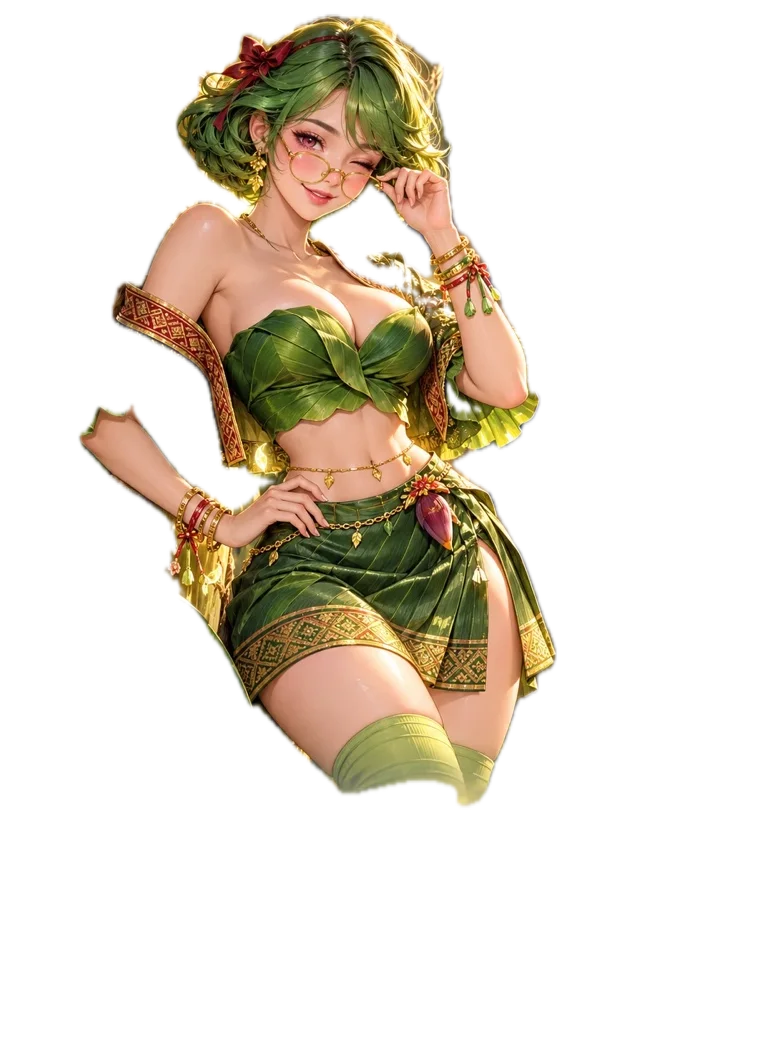
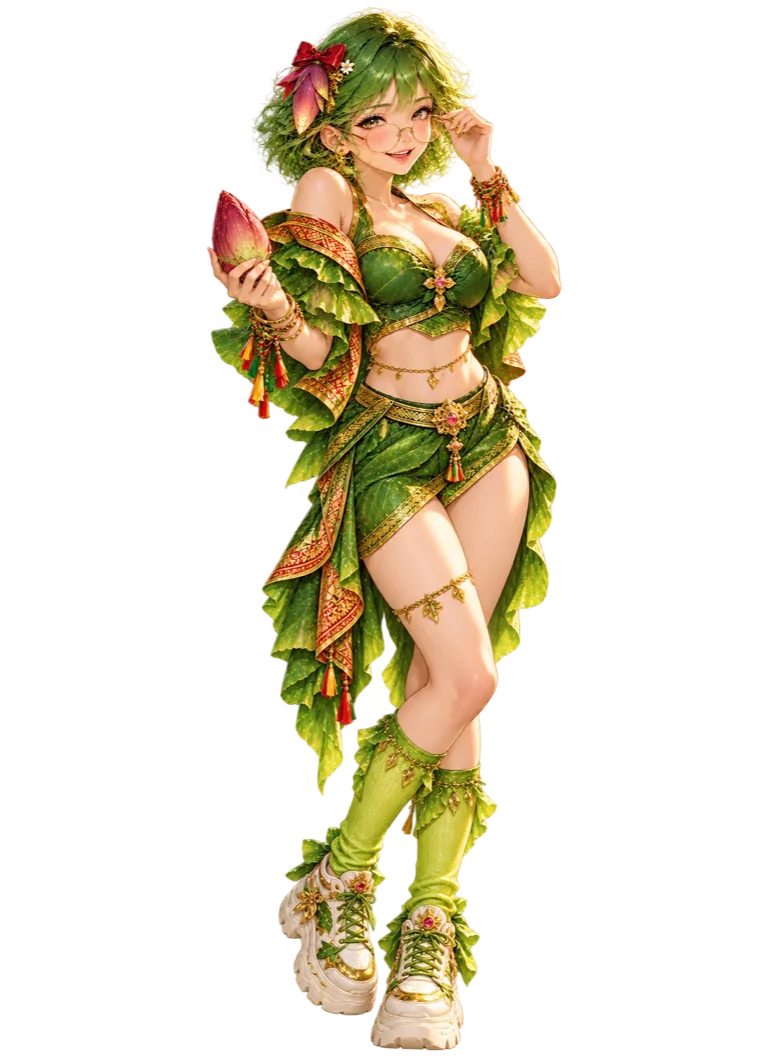
Nang Tani full-body showcase cutout (normal and special art) and Ajarn Daeng's voice line

diff --git a/index.html b/index.html
@@ -1,5 +1,5 @@
 <meta name="security-build" content="1">
-<meta http-equiv="Content-Security-Policy" content="default-src 'self'; script-src 'self' 'sha256-Xh50GS+mHx/D0Md/rNInzrnHCgoVxXr2jz0Vp6Xpx5U=' 'sha256-QUBI9elfxwXcLUtavhEAWhqrLD3PLtQ0V8pxQXOqd7E='; style-src 'self' 'unsafe-inline' https://fonts.googleapis.com; font-src 'self' https://fonts.gstatic.com data:; img-src 'self' data: blob: https://laolegendwars.com https://xahuvoounkdojfsvnfaj.supabase.co; media-src 'self' blob:; connect-src 'self' https://xahuvoounkdojfsvnfaj.supabase.co wss://xahuvoounkdojfsvnfaj.supabase.co; worker-src 'self'; object-src 'none'; base-uri 'none'; form-action 'self'">
+<meta http-equiv="Content-Security-Policy" content="default-src 'self'; script-src 'self' 'sha256-Xh50GS+mHx/D0Md/rNInzrnHCgoVxXr2jz0Vp6Xpx5U=' 'sha256-ci5fHfEQj/ddxvq+SypXGn7ybNlnEMLXcjkhuMZ4MSM='; style-src 'self' 'unsafe-inline' https://fonts.googleapis.com; font-src 'self' https://fonts.gstatic.com data:; img-src 'self' data: blob: https://laolegendwars.com https://xahuvoounkdojfsvnfaj.supabase.co; media-src 'self' blob:; connect-src 'self' https://xahuvoounkdojfsvnfaj.supabase.co wss://xahuvoounkdojfsvnfaj.supabase.co; worker-src 'self'; object-src 'none'; base-uri 'none'; form-action 'self'">
 <meta name="referrer" content="no-referrer">
 <meta charset="utf-8">
 <script>
@@ -2838,7 +2838,7 @@ const PET_ART = true;            // art/pet-<id>-<1..3>.webp, cut out from the u
 const PET_LINES = {start:['ສູ້ໆ!', 'ພ້ອມແລ້ວ!', 'ໄປກັນເລີຍ!'], kill:['ເກັ່ງຫຼາຍ!', 'ວ້າວ!', 'ສຸດຍອດ!'], legend:['ຕຳນານມາແລ້ວ!', 'ແຮງຫຼາຍ!'],
   tale:['ນິທານຄົບແລ້ວ!', 'ມ່ວນຫຼາຍ!'], win:['ຊະນະແລ້ວ! 🎉', 'ເຮົາເກັ່ງທີ່ສຸດ!'], lose:['ບໍ່ເປັນຫຍັງ ເທື່ອໜ້າເອົາໃໝ່!', 'ສູ້ໃໝ່ເດີ້!']};
 // cutouts for the summon showcase (art/cut/<img>.webp), made with the macOS subject-lift; the subject's box as fractions [x, y, w, h]
-const CUTS = {ajandaeng:[0.071,0.012,0.886,0.954],'alt-ajandaeng':[0.087,0.055,0.863,0.892],nangtani:[0.105,0.017,0.624,0.742],taniduean:[0.001,0,0.999,1],'alt-taniduean':[0.001,0,0.999,1],"pulangseung":[0.0145, 0.0, 0.9158, 0.6601],"alt-pulangseung":[0.0, 0.0, 0.9803, 0.6761],"khunjueang":[0.1013, 0.0473, 0.5934, 0.4276],"alt-khunjueang":[0.0, 0.0938, 0.5224, 0.3845],"chaothamkonglor":[0.3618, 0.01, 0.4579, 0.586],"alt-chaothamkonglor":[0.2855, 0.0085, 0.6987, 0.5849],"rueaxuangkham":[0.0, 0.0218, 1.0, 0.65],"alt-rueaxuangkham":[0.0158, 0.1569, 0.9842, 0.6134],"maekhuakham":[0.2342, 0.0236, 0.5171, 0.5309],"alt-maekhuakham":[0.0, 0.0822, 0.7947, 0.6352],"nairoymuay":[0.1026, 0.0511, 0.8697, 0.6424],"alt-nairoymuay":[0.0, 0.0132, 0.9408, 0.7703],"hydronak":[0.2322, 0.0198, 0.4395, 0.4613],"panyakham":[0.2211, 0.0132, 0.6776, 0.5478],"alt-panyakham":[0.0303, 0.086, 0.5921, 0.431],"bangfaidao":[0.3355, 0.0104, 0.6, 0.5208],"alt-bangfaidao":[0.0605, 0.0123, 0.8566, 0.6654],"maekaidao":[0.0, 0.1231, 0.9868, 0.4489],"alt-maekaidao":[0.0039, 0.0919, 0.95, 0.5464],"alt-hydronak":[0.0, 0.0085, 0.9178, 0.3547],nangchampa:[0.087,0.043,0.847,0.692],khudapphen:[0.029,0,0.953,0.636],dapsongmue:[0.008,0.055,0.966,0.496],ajandap:[0.126,0.074,0.768,0.715],kamkadam:[0.234,0.028,0.584,0.528],'alt-hackxm':[0,0.119,0.874,0.862],'alt-hapkhanasouane':[0,0.023,0.997,0.939],'alt-kalaket':[0,0.009,0.995,0.951],'alt-kamkadam':[0.045,0,0.945,0.657],'alt-kangli':[0,0.015,0.961,0.896],'alt-khaendj':[0,0,0.929,0.811],'alt-kratai':[0.232,0.242,0.513,0.417],'alt-luksaolao':[0,0.03,0.753,0.777],'alt-maethap':[0,0.013,0.795,0.879],'alt-makaew':[0,0.021,0.942,0.772],'alt-mechyak':[0,0.038,0.995,0.96],'alt-nagax':[0,0,0.887,0.798],'alt-nangkaew':[0,0,0.958,0.826],'alt-ngaonam':[0.087,0.385,0.674,0.238],'alt-phadaeng':[0,0.009,0.934,0.77],'alt-phayanak':[0,0,0.958,0.679],'alt-phayathaen':[0,0.015,0.997,0.677],'alt-phralam':[0,0,0.997,0.999],'alt-phutthasen':[0,0.047,0.997,0.709],'alt-punyeu':[0,0.021,0.997,0.591],'alt-santhaman':[0,0,0.997,0.942],'alt-singkaew':[0,0.094,0.992,0.691],'alt-sinxay':[0,0,0.984,0.999],'alt-suttharo':[0.216,0,0.529,0.615],'alt-thaohung':[0,0,0.989,0.998],'alt-xangsuek':[0,0.013,0.945,0.768],hanuman:[0,0,0.987,0.69],hapkhanasouane:[0,0.015,0.997,0.621],hungxang:[0,0,0.9,0.642],kalaket:[0,0.023,0.976,0.619],kamkadam2:[0,0.011,0.632,0.553],khrut:[0,0,0.997,0.679],khunborom:[0.108,0.038,0.395,0.369],khurak:[0.039,0.009,0.942,0.472],kratai:[0.034,0.094,0.963,0.468],kumphan:[0.058,0.011,0.713,0.543],leader:[0,0.023,0.997,0.674],maethap:[0,0,0.997,0.615],mechyak:[0,0.011,0.987,0.632],nakjet:[0.008,0.002,0.974,0.519],nangkaew:[0,0,0.987,0.711],phangkhi:[0,0,0.868,0.536],phayakhom:[0,0,0.997,0.623],phayanak:[0,0,0.892,0.938],phayathaen:[0.121,0.013,0.797,0.494],phralam:[0.105,0,0.861,0.741],phutthasen:[0,0.023,0.966,0.64],punyeu:[0.061,0.036,0.853,0.553],sangkhanthewi:[0.15,0.008,0.847,0.551],sangpheuak:[0.153,0.077,0.624,0.447],singhimma:[0.082,0.011,0.824,0.586],sinxay:[0,0,0.997,0.742],sinxaysam:[0.013,0.021,0.971,0.589],songphi:[0.039,0.023,0.782,0.494],suttharo:[0.003,0,0.776,0.394],thaenlom:[0.005,0.023,0.842,0.496],thaentong:[0.013,0,0.913,0.555],thaohung:[0.168,0,0.445,0.525],thewadapon:[0,0,0.761,0.566],xangjaidi:[0.1,0.03,0.797,0.542],xangsuek:[0.037,0.011,0.913,0.617],yaknak:[0.005,0.011,0.863,0.521],yaksip:[0.005,0,0.882,0.591],yaksombat:[0.084,0,0.913,0.609]};
+const CUTS = {ajandaeng:[0.071,0.012,0.886,0.954],'alt-ajandaeng':[0.087,0.055,0.863,0.892],nangtani:[0.271,0.006,0.47,0.986],'alt-nangtani':[0.271,0.006,0.47,0.986],taniduean:[0.001,0,0.999,1],'alt-taniduean':[0.001,0,0.999,1],"pulangseung":[0.0145, 0.0, 0.9158, 0.6601],"alt-pulangseung":[0.0, 0.0, 0.9803, 0.6761],"khunjueang":[0.1013, 0.0473, 0.5934, 0.4276],"alt-khunjueang":[0.0, 0.0938, 0.5224, 0.3845],"chaothamkonglor":[0.3618, 0.01, 0.4579, 0.586],"alt-chaothamkonglor":[0.2855, 0.0085, 0.6987, 0.5849],"rueaxuangkham":[0.0, 0.0218, 1.0, 0.65],"alt-rueaxuangkham":[0.0158, 0.1569, 0.9842, 0.6134],"maekhuakham":[0.2342, 0.0236, 0.5171, 0.5309],"alt-maekhuakham":[0.0, 0.0822, 0.7947, 0.6352],"nairoymuay":[0.1026, 0.0511, 0.8697, 0.6424],"alt-nairoymuay":[0.0, 0.0132, 0.9408, 0.7703],"hydronak":[0.2322, 0.0198, 0.4395, 0.4613],"panyakham":[0.2211, 0.0132, 0.6776, 0.5478],"alt-panyakham":[0.0303, 0.086, 0.5921, 0.431],"bangfaidao":[0.3355, 0.0104, 0.6, 0.5208],"alt-bangfaidao":[0.0605, 0.0123, 0.8566, 0.6654],"maekaidao":[0.0, 0.1231, 0.9868, 0.4489],"alt-maekaidao":[0.0039, 0.0919, 0.95, 0.5464],"alt-hydronak":[0.0, 0.0085, 0.9178, 0.3547],nangchampa:[0.087,0.043,0.847,0.692],khudapphen:[0.029,0,0.953,0.636],dapsongmue:[0.008,0.055,0.966,0.496],ajandap:[0.126,0.074,0.768,0.715],kamkadam:[0.234,0.028,0.584,0.528],'alt-hackxm':[0,0.119,0.874,0.862],'alt-hapkhanasouane':[0,0.023,0.997,0.939],'alt-kalaket':[0,0.009,0.995,0.951],'alt-kamkadam':[0.045,0,0.945,0.657],'alt-kangli':[0,0.015,0.961,0.896],'alt-khaendj':[0,0,0.929,0.811],'alt-kratai':[0.232,0.242,0.513,0.417],'alt-luksaolao':[0,0.03,0.753,0.777],'alt-maethap':[0,0.013,0.795,0.879],'alt-makaew':[0,0.021,0.942,0.772],'alt-mechyak':[0,0.038,0.995,0.96],'alt-nagax':[0,0,0.887,0.798],'alt-nangkaew':[0,0,0.958,0.826],'alt-ngaonam':[0.087,0.385,0.674,0.238],'alt-phadaeng':[0,0.009,0.934,0.77],'alt-phayanak':[0,0,0.958,0.679],'alt-phayathaen':[0,0.015,0.997,0.677],'alt-phralam':[0,0,0.997,0.999],'alt-phutthasen':[0,0.047,0.997,0.709],'alt-punyeu':[0,0.021,0.997,0.591],'alt-santhaman':[0,0,0.997,0.942],'alt-singkaew':[0,0.094,0.992,0.691],'alt-sinxay':[0,0,0.984,0.999],'alt-suttharo':[0.216,0,0.529,0.615],'alt-thaohung':[0,0,0.989,0.998],'alt-xangsuek':[0,0.013,0.945,0.768],hanuman:[0,0,0.987,0.69],hapkhanasouane:[0,0.015,0.997,0.621],hungxang:[0,0,0.9,0.642],kalaket:[0,0.023,0.976,0.619],kamkadam2:[0,0.011,0.632,0.553],khrut:[0,0,0.997,0.679],khunborom:[0.108,0.038,0.395,0.369],khurak:[0.039,0.009,0.942,0.472],kratai:[0.034,0.094,0.963,0.468],kumphan:[0.058,0.011,0.713,0.543],leader:[0,0.023,0.997,0.674],maethap:[0,0,0.997,0.615],mechyak:[0,0.011,0.987,0.632],nakjet:[0.008,0.002,0.974,0.519],nangkaew:[0,0,0.987,0.711],phangkhi:[0,0,0.868,0.536],phayakhom:[0,0,0.997,0.623],phayanak:[0,0,0.892,0.938],phayathaen:[0.121,0.013,0.797,0.494],phralam:[0.105,0,0.861,0.741],phutthasen:[0,0.023,0.966,0.64],punyeu:[0.061,0.036,0.853,0.553],sangkhanthewi:[0.15,0.008,0.847,0.551],sangpheuak:[0.153,0.077,0.624,0.447],singhimma:[0.082,0.011,0.824,0.586],sinxay:[0,0,0.997,0.742],sinxaysam:[0.013,0.021,0.971,0.589],songphi:[0.039,0.023,0.782,0.494],suttharo:[0.003,0,0.776,0.394],thaenlom:[0.005,0.023,0.842,0.496],thaentong:[0.013,0,0.913,0.555],thaohung:[0.168,0,0.445,0.525],thewadapon:[0,0,0.761,0.566],xangjaidi:[0.1,0.03,0.797,0.542],xangsuek:[0.037,0.011,0.913,0.617],yaknak:[0.005,0.011,0.863,0.521],yaksip:[0.005,0,0.882,0.591],yaksombat:[0.084,0,0.913,0.609]};
 function preloadCuts(ids){ for(const id of ids){ const d = C[id]; if(!d) continue; if(FUSE_FIG[id]) new Image().src = ART + 'cut/' + FUSE_FIG[id] + '.webp'; for(const im of [d.img, ALT[id]]) if(im && CUTS[im]) new Image().src = ART + 'cut/' + im + '.webp'; } }
 const ALT_CHANCE = location.hash === '#altall' ? 1 : .25;  // #altall makes every one alt, for showing the cards off
 
@@ -3411,7 +3411,7 @@ function mfFade(secs){
 }
 /* ---------- character voices (art/voice/<id>.m4a, prompts/deck-25-voices.txt): a short line when a card enters ---------- */
 // add an id here when its file arrives; taniduean = Nang Tani's change, yanfull = the full yantra call
-const VOICES = ['nangtani', 'taniduean'];
+const VOICES = ['nangtani', 'taniduean', 'ajandaeng'];
 const VO = {buf:{}, wait:{}, t:{}, last:0};
 function voiceLoad(id){
   if(VO.buf[id] || VO.wait[id] || !SND.ctx || !window.fetch) return VO.wait[id];
